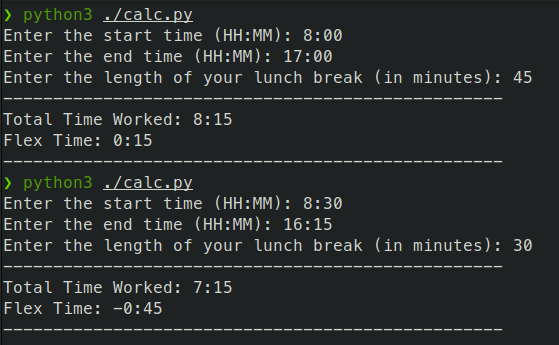
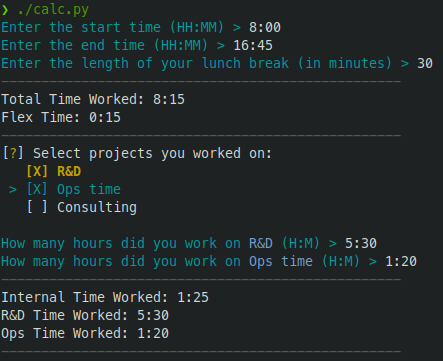
Updated to select multiple projects

Changed region(s): [[0.0, 0.0, 0.9977, 0.7826], [0.0, 0.8116, 0.9097, 0.9855]]

diff --git a/calc.py b/calc.py
@@ -1,18 +1,25 @@
 #!/usr/bin/env python3
 import datetime
+import inquirer
+import colorama
+
+project_one = "R&D"
+project_two = "Ops"
+project_three = "Consulting"
 
 default_workday = datetime.timedelta(hours=8)
 default_lunch_time = datetime.timedelta(hours=1)
+reset_color = colorama.Style.RESET_ALL
 
-start_time_str = input("Enter the start time (HH:MM): ")
+start_time_str = input(colorama.Fore.CYAN + "Enter the start time (HH:MM) > " + reset_color)
 start_time = datetime.datetime.strptime(start_time_str, "%H:%M")
 
-end_time_str = input("Enter the end time (HH:MM): ")
+end_time_str = input(colorama.Fore.CYAN + "Enter the end time (HH:MM) > " + reset_color)
 end_time = datetime.datetime.strptime(end_time_str, "%H:%M")
 
 time_elapsed = end_time - start_time
 
-lunch_time_minutes = int(input("Enter the length of your lunch break (in minutes): "))
+lunch_time_minutes = int(input(colorama.Fore.CYAN + "Enter the length of your lunch break (in minutes) > " + reset_color))
 remaining_lunch = default_lunch_time - datetime.timedelta(minutes=lunch_time_minutes)
 
 total_worktime = (time_elapsed - default_lunch_time) + remaining_lunch
@@ -28,7 +35,57 @@ else:
     flex_time_str = str(flex_time).split(":")[:2]
     formatted_flex_time = ":".join(flex_time_str)
 
-print("-" * 50)
+print(colorama.Fore.LIGHTBLACK_EX + ("-" * 50) + reset_color)
 print(f"Total Time Worked: {formatted_total_worktime}")
 print(f"Flex Time: {formatted_flex_time}")
-print("-" * 50)
+print(colorama.Fore.LIGHTBLACK_EX + ("-" * 50) + reset_color)
+
+projects = [
+    inquirer.Checkbox('projects',
+                      message='Select projects you worked on',
+                      choices=[project_one, project_two, project_three])
+]
+answers = inquirer.prompt(projects)
+selected_projects = answers['projects']
+
+for project in selected_projects:
+    hours_worked_on_project = input(colorama.Fore.CYAN + "How many hours did you work on " + colorama.Fore.LIGHTBLUE_EX + f"{project}" + colorama.Fore.CYAN + " (H:M) > " + reset_color)
+    answer_hours, answer_minutes = map(int, hours_worked_on_project.split(":"))
+    if project == project_one:
+        projone_time = datetime.timedelta(hours=answer_hours, minutes=answer_minutes)
+    elif project == project_two:
+        projtwo_time = datetime.timedelta(hours=answer_hours, minutes=answer_minutes)
+    elif project == project_three:
+        projthree_time = datetime.timedelta(hours=answer_hours, minutes=answer_minutes)
+
+total_internal_time = total_worktime
+
+for project in selected_projects:
+    if project == project_one:
+        total_internal_time = total_internal_time - projone_time
+    elif project == project_two:
+        total_internal_time = total_internal_time - projtwo_time
+    elif project == project_three:
+        total_internal_time = total_internal_time - projthree_time
+
+total_internal_time_str = str(total_internal_time).split(":")[:2]
+formatted_total_internal_worktime = ":".join(total_internal_time_str)
+
+print(colorama.Fore.LIGHTBLACK_EX + ("-" * 50) + reset_color)
+print(f"Internal Time Worked: {formatted_total_internal_worktime}")
+
+for project in selected_projects:
+    if project == project_one:
+        total_projone_time_str = str(projone_time).split(":")[:2]
+        formatted_projone_time = ":".join(total_projone_time_str)
+        print(f"{project_one} Time Worked: {formatted_projone_time}")
+    elif project == project_two:
+        total_projtwo_time_str = str(projtwo_time).split(":")[:2]
+        formatted_projtwo_time = ":".join(total_projtwo_time_str)
+        print(f"{project_two} Time Worked: {formatted_projtwo_time}")
+    elif project == project_three:
+        total_projthree_time_str = str(projthree_time).split(":")[:2]
+        formatted_projthree_time = ":".join(total_projthree_time_str)
+        print(f"{project_three} Time Worked: {formatted_projthree_time}")
+
+print(colorama.Fore.LIGHTBLACK_EX + ("-" * 50) + reset_color)

diff --git a/README.md b/README.md
@@ -5,18 +5,25 @@ Simple python script to calculate worked hours in a day, because I'm too lazy to
 ![example](./img/example.png)
 
 ## How it works
-*Requires python and datetime module.*
+
+Install requirements:
+```
+pip install -r requirements.txt
+```
 
 Simply run:
 ```
 ./calc.py
 ```
-Then answer prompted questions.
 
-## If changes are necessary
-You can change default workday and default lunchtime in the script on line 3 & 4.
-```
-default_workday = datetime.timedelta(hours=8)
-default_lunch_time = datetime.timedelta(hours=1)
-```
-These are set by default to 8 hour workday with 1 hour lunch.
+*Use arrowkeys on keyboard to select projects and press enter to confirm.*
+
+## Changing/adjusting projects
+
+You can change the name of projects by setting the variables `project_one`, `project_two`, and `project_three` at the beginning of calc.py.
+
+**To add or remove projects you need to:**
+
+1. Create or remove a project variable at the beginning of calc.py
+2. Add or remove the variable from the inquirer choices list
+3. Adjust all "for loops" that loop through selected projects
